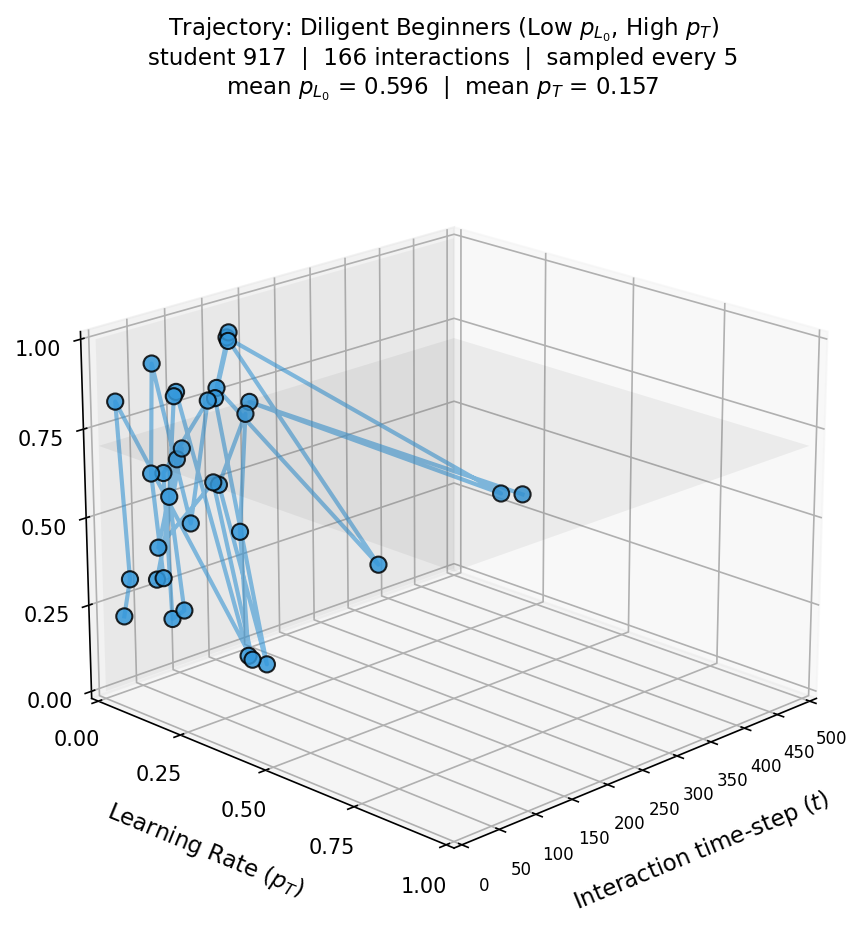
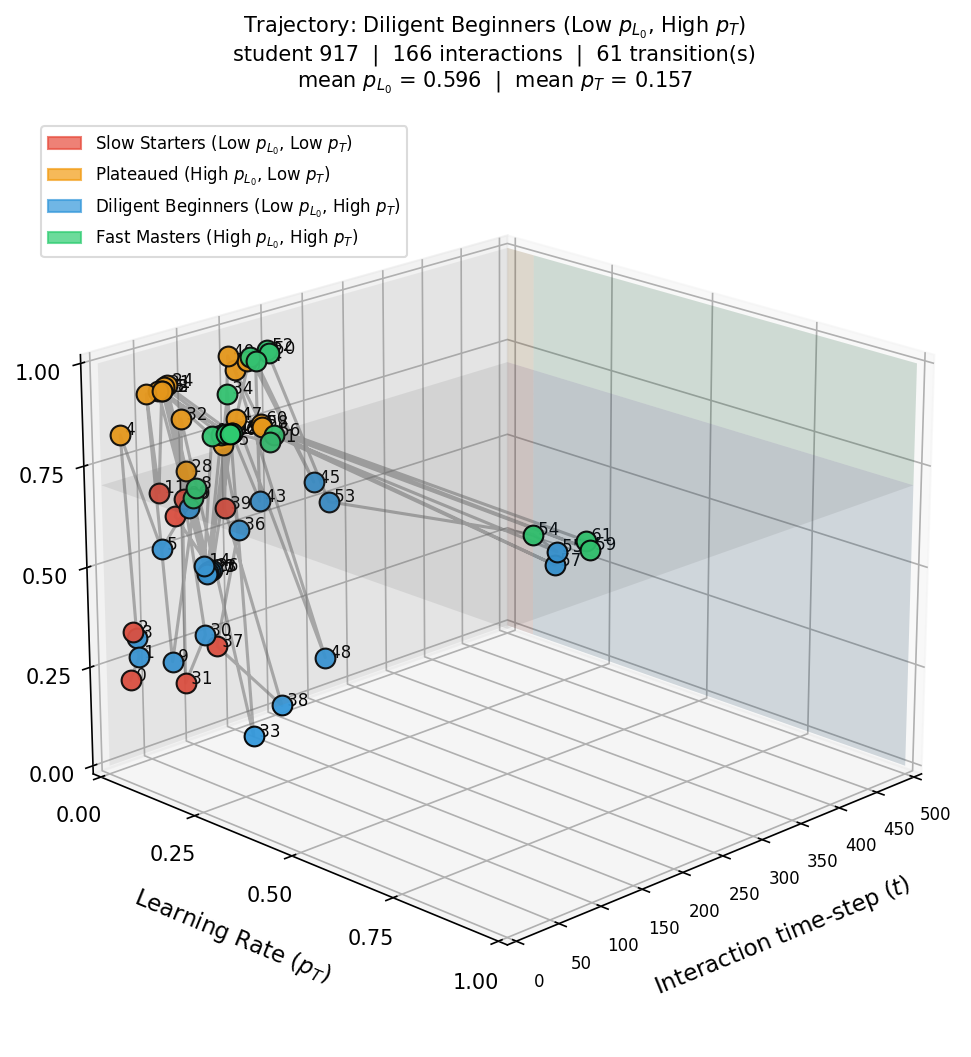
plots: 3d

diff --git a/examples/results/generate_roster_plots_gtransformer.py b/examples/results/generate_roster_plots_gtransformer.py
@@ -9,6 +9,7 @@ import argparse
 import pandas as pd
 import numpy as np
 import matplotlib.pyplot as plt
+import matplotlib.patches as mpatches
 from mpl_toolkits.mplot3d import Axes3D
 import seaborn as sns
 
@@ -152,34 +153,65 @@ def main():
         full_subset = df[df['student_id'] == uid].reset_index(drop=True)
         # Cap to global_max_interactions
         full_subset = full_subset.iloc[:global_max_interactions]
-        # Subsample every args.timestep interactions; always include the last point
-        indices = list(range(0, len(full_subset), args.timestep))
-        if (len(full_subset) - 1) not in indices:
-            indices.append(len(full_subset) - 1)
-        subset = full_subset.iloc[indices].reset_index(drop=True)
-        # t values are the actual positions in the student's original sequence
-        t = np.array(indices)
 
-        fig = plt.figure(figsize=(10, 7))
+        # Select transition points: first interaction, then only when quadrant changes
+        def row_quadrant(row):
+            return get_quadrant({init_col: row[init_col], rate_col: row[rate_col]})
+
+        full_subset = full_subset.copy()
+        full_subset['pt_quad'] = full_subset.apply(row_quadrant, axis=1)
+
+        transition_indices = [0]
+        last_quad = full_subset['pt_quad'].iloc[0]
+        for idx in range(1, len(full_subset)):
+            q = full_subset['pt_quad'].iloc[idx]
+            if q != last_quad:
+                transition_indices.append(idx)
+                last_quad = q
+
+        subset = full_subset.iloc[transition_indices].reset_index(drop=True)
+        t = np.array(transition_indices)
+
+        fig = plt.figure(figsize=(11, 8))
         ax = fig.add_subplot(111, projection='3d')
 
-        ax.scatter(t, subset[rate_col], subset[init_col],
-                   color=colors[i], s=60, alpha=0.85, edgecolors='k', zorder=5)
-        ax.plot(t, subset[rate_col], subset[init_col],
-                color=colors[i], alpha=0.6, linewidth=2)
+        # --- Colored quadrant regions on the back wall (x = global_max_interactions) ---
+        quad_colors = ['#e74c3c', '#f39c12', '#3498db', '#2ecc71']
+        quad_yz = [
+            ([0.0, t_med],   [0.0, l0_med]),   # Q0 Slow Starters
+            ([0.0, t_med],   [l0_med, 1.0]),    # Q1 Plateaued
+            ([t_med, 1.0],   [0.0, l0_med]),    # Q2 Diligent Beginners
+            ([t_med, 1.0],   [l0_med, 1.0]),    # Q3 Fast Masters
+        ]
+        xback = global_max_interactions
+        for qc, (yr, zr) in zip(quad_colors, quad_yz):
+            yy, zz = np.meshgrid(yr, zr)
+            xx = np.full_like(yy, xback, dtype=float)
+            ax.plot_surface(xx, yy, zz, color=qc, alpha=0.18, zorder=1)
 
-        # Mark quadrant boundary planes (translucent) — use fixed [0,1] ranges
+        # --- Two boundary planes spanning full time range ---
         t_plot_range = [0, global_max_interactions]
         tt, ll = np.meshgrid(t_plot_range, [0.0, 1.0])
-        ax.plot_surface(tt, np.full_like(tt, t_med), ll, alpha=0.07, color='grey')
+        ax.plot_surface(tt, np.full_like(tt, t_med),  ll,          alpha=0.10, color='grey', zorder=2)
         rr, tt2 = np.meshgrid([0.0, 1.0], t_plot_range)
-        ax.plot_surface(tt2, rr, np.full_like(rr, l0_med), alpha=0.07, color='grey')
+        ax.plot_surface(tt2, rr, np.full_like(rr, l0_med),          alpha=0.10, color='grey', zorder=2)
+
+        # --- Connecting line ---
+        ax.plot(t, subset[rate_col], subset[init_col],
+                color='dimgrey', alpha=0.5, linewidth=1.5, zorder=3)
+
+        # --- Transition points numbered and colored by quadrant ---
+        for seq, (idx, row) in enumerate(zip(t, subset.itertuples())):
+            pt_color = quad_colors[int(row.pt_quad)]
+            ax.scatter([idx], [getattr(row, rate_col)], [getattr(row, init_col)],
+                       color=pt_color, s=90, edgecolors='k', zorder=5, alpha=0.95)
+            ax.text(idx, getattr(row, rate_col), getattr(row, init_col),
+                    f' {seq}', fontsize=8, color='black', zorder=6)
 
         ax.set_xlabel('Interaction time-step ($t$)', fontsize=11, labelpad=10)
         ax.set_ylabel('Learning Rate ($p_T$)', fontsize=11, labelpad=10)
         ax.set_zlabel('Initial Mastery ($p_{L_0}$)', fontsize=11, labelpad=10)
 
-        # Integer ticks on x-axis, range fixed to global max (inverted)
         ax.set_xlim(global_max_interactions, 0)
         max_ticks = 10
         tick_step = max(1, global_max_interactions // max_ticks)
@@ -187,19 +219,27 @@ def main():
         ax.set_xticks(xticks)
         ax.set_xticklabels([str(v) for v in xticks], fontsize=8)
 
-        # Fix p_T and p_L0 axes to [0,1]
         ax.set_ylim(0.0, 1.0)
         ax.set_zlim(0.0, 1.0)
         ax.set_yticks([0.0, 0.25, 0.5, 0.75, 1.0])
         ax.set_zticks([0.0, 0.25, 0.5, 0.75, 1.0])
 
+        # --- Legend ---
+        legend_handles = [
+            mpatches.Patch(color=quad_colors[q], alpha=0.7, label=quad_labels[q])
+            for q in range(4)
+        ]
+        ax.legend(handles=legend_handles, loc='upper left',
+                  bbox_to_anchor=(0.0, 1.0), fontsize=8, framealpha=0.7)
+
         mean_l0 = full_subset[init_col].mean()
         mean_t  = full_subset[rate_col].mean()
+        n_transitions = len(transition_indices) - 1
         ax.set_title(
             f'Trajectory: {quad_labels[i]}\n'
-            f'student {uid}  |  {len(full_subset)} interactions  |  sampled every {args.timestep}\n'
+            f'student {uid}  |  {len(full_subset)} interactions  |  {n_transitions} transition(s)\n'
             f'mean $p_{{L_0}}$ = {mean_l0:.3f}  |  mean $p_T$ = {mean_t:.3f}',
-            fontsize=11, pad=15
+            fontsize=10, pad=15
         )
         ax.view_init(elev=20, azim=45)
 
@@ -207,7 +247,7 @@ def main():
         out_path = os.path.join(output_dir, f"roster_3d_{quad_names[i]}_893468.png")
         plt.savefig(out_path, dpi=150, bbox_inches='tight')
         plt.close()
-        print(f"Saved individual trajectory plot: {out_path}")
+        print(f"Saved {quad_names[i]}: {len(transition_indices)} points ({n_transitions} transitions) → {out_path}")
 
     # --- Combined plot (kept for backward compatibility) ---
     fig = plt.figure(figsize=(14, 10))
